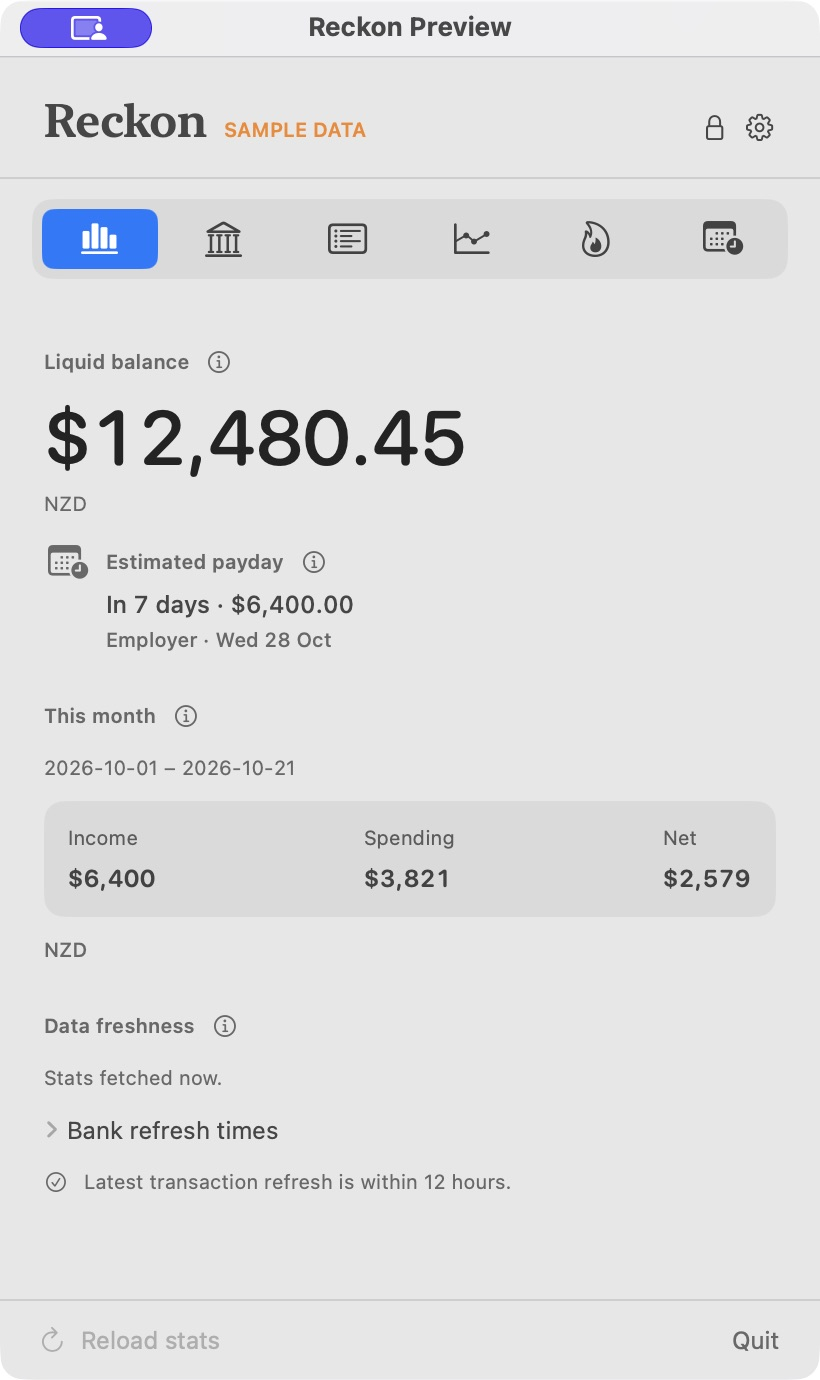
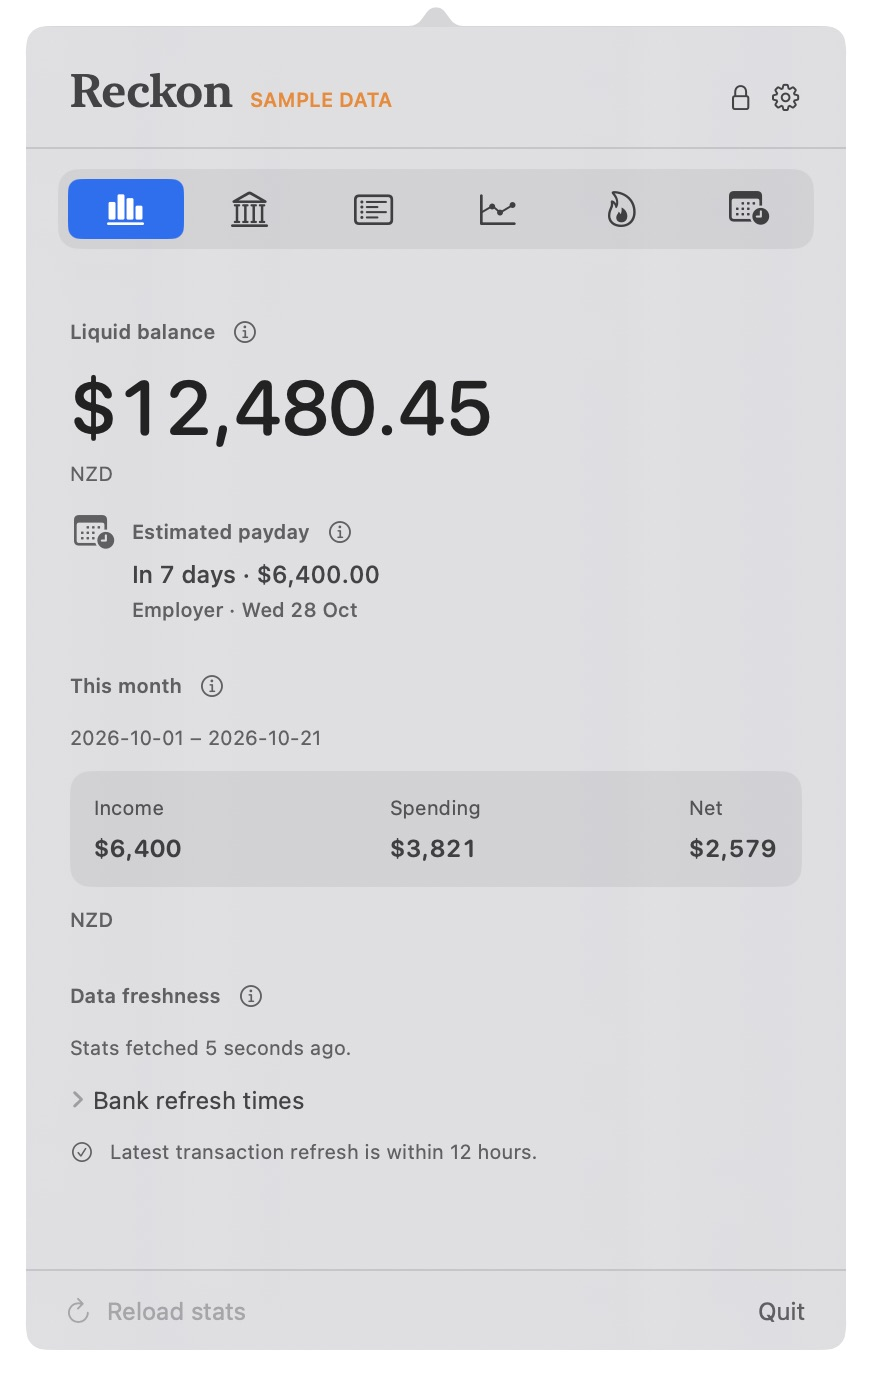
Capture demo dropdowns without the preview title bar

diff --git a/docs/PUBLICATION-AUDIT.md b/docs/PUBLICATION-AUDIT.md
@@ -28,9 +28,9 @@ Public updates require no GitHub token. The updater therefore has no private-rep
 
 ## Demo screenshots and repeat audit — 21 October 2026
 
-The README screenshots show Reckon 0.7.4 with `--demo --preview`. Each screenshot retains the **SAMPLE DATA** label. Account names and amounts come from `Sources/ReckonCore/SampleDashboard.swift`. The demo balance history uses synthetic observations from `BankDashboardStore`.
+The README screenshots show Reckon 0.7.4 with `--demo`. Each screenshot retains the **SAMPLE DATA** label. Account names and amounts come from `Sources/ReckonCore/SampleDashboard.swift`. The demo balance history uses synthetic observations from `BankDashboardStore`.
 
-Demo mode returns before the app reads Keychain, loads local history, or starts its backend. The capture used a separate demo app copy. The screenshots contain only the demo preview window. They exclude EXIF, Photoshop, and display-profile metadata.
+Demo mode returns before the app reads Keychain, loads local history, or starts its backend. The capture used a separate demo app copy. The screenshots contain only the demo dropdown. The dropdown captures exclude the preview title bar and its screen-share indicator. They exclude EXIF, Photoshop, and display-profile metadata.
 
 The repeat audit used a fresh mirror of the public repository at commit `67ddd459dbcfaa28a5bf3fd856c0f8669cafeed2`. It covered:
 
